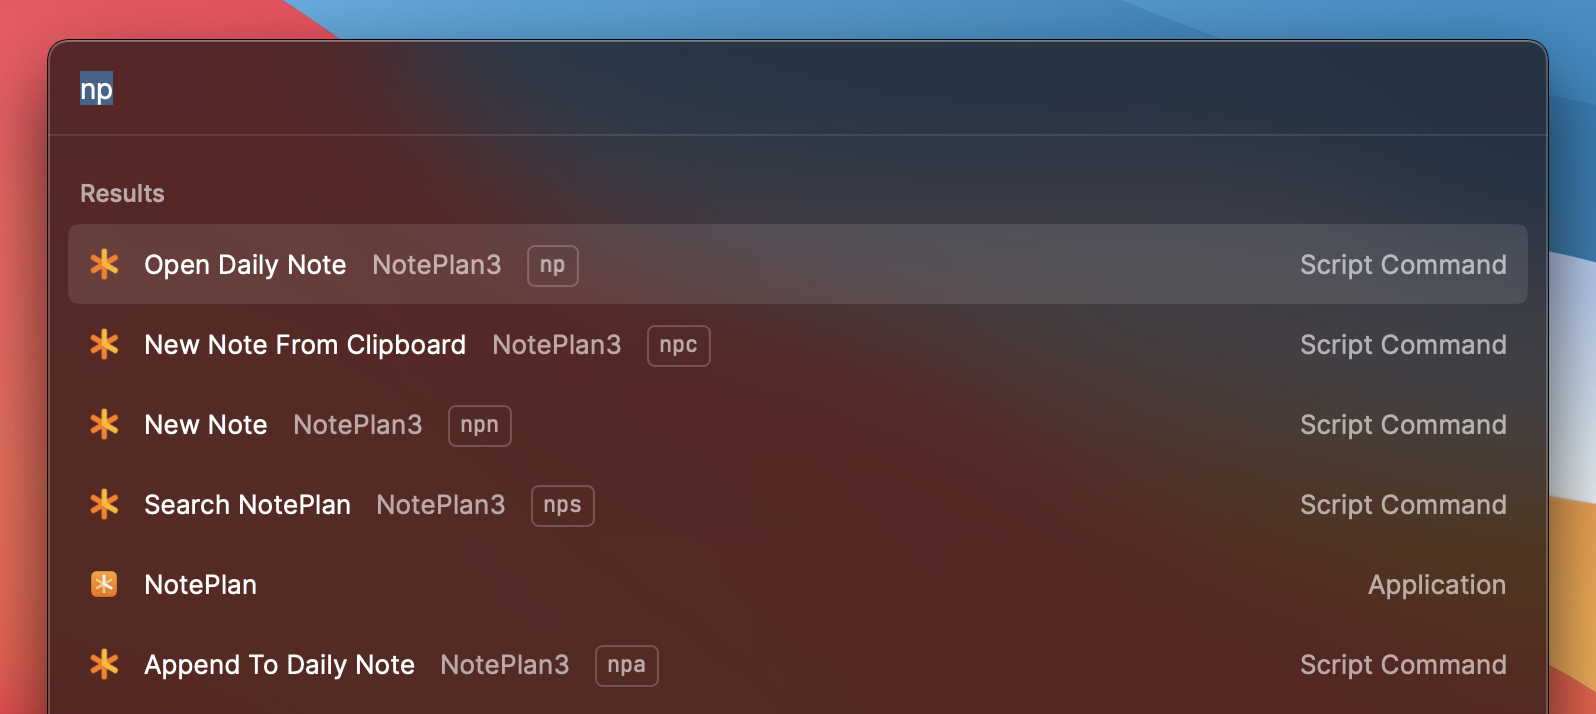
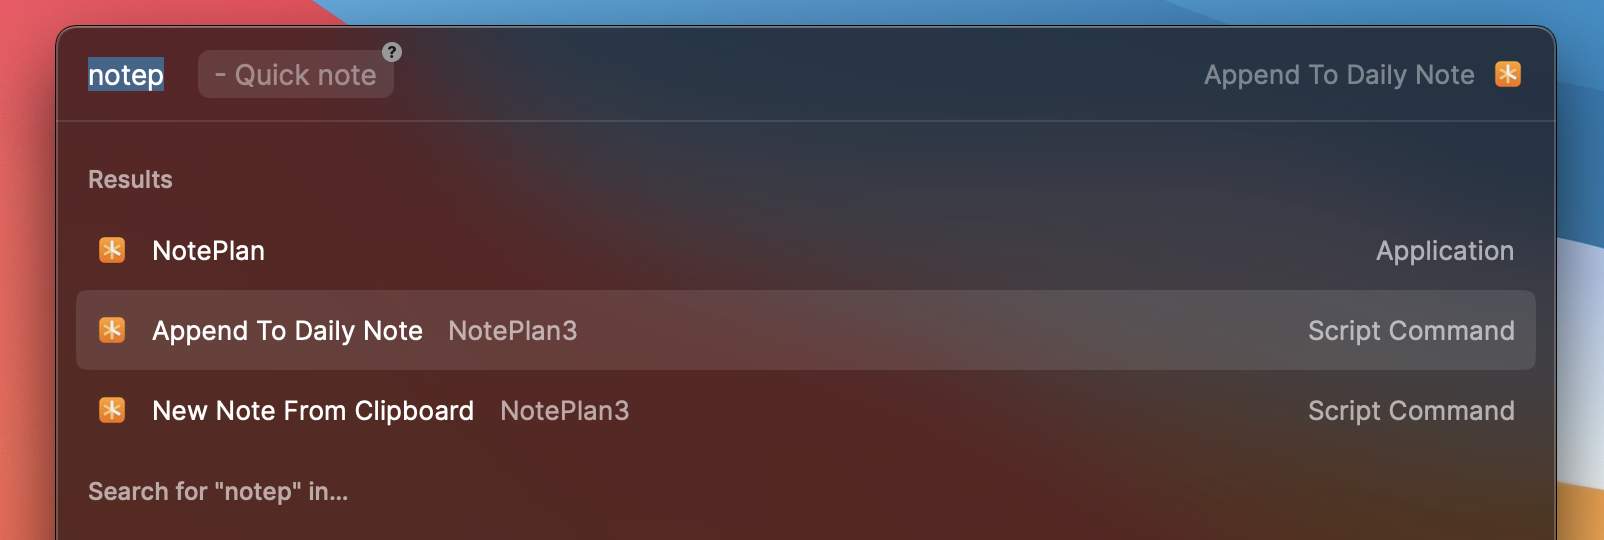
Removed commands that can be replaced with quicklinks

Changed region(s): [[0.0, 0.0, 1.0, 1.0], [0.7368, 0.1185, 0.9518, 0.1778]]

diff --git a/commands/apps/noteplan3/README.md b/commands/apps/noteplan3/README.md
@@ -6,12 +6,6 @@ Script commands for [NotePlan3](https://noteplan.co)
 
 ## Commands
 
-- **Open Daily Note**: Opens todays note in NotePlan3.
-
 - **Append To Daily Note**: Appends input text to the Daily note of today. Really simple input that can include *, - or markdown for formatting. If input is left blank it will instead paste whatever text is in your clipboard.
 
-- **New Note**: Create a new note with a title and optional content, can include *, - or markdown for formatting.
-
 - **New Note From Clipboard**: Create a new note with a title and the contents of the clipboard (only works with text).
-
-- **Search NotePlan**: Search NotePlan for a given string. Opens up the NotePlan search view.
